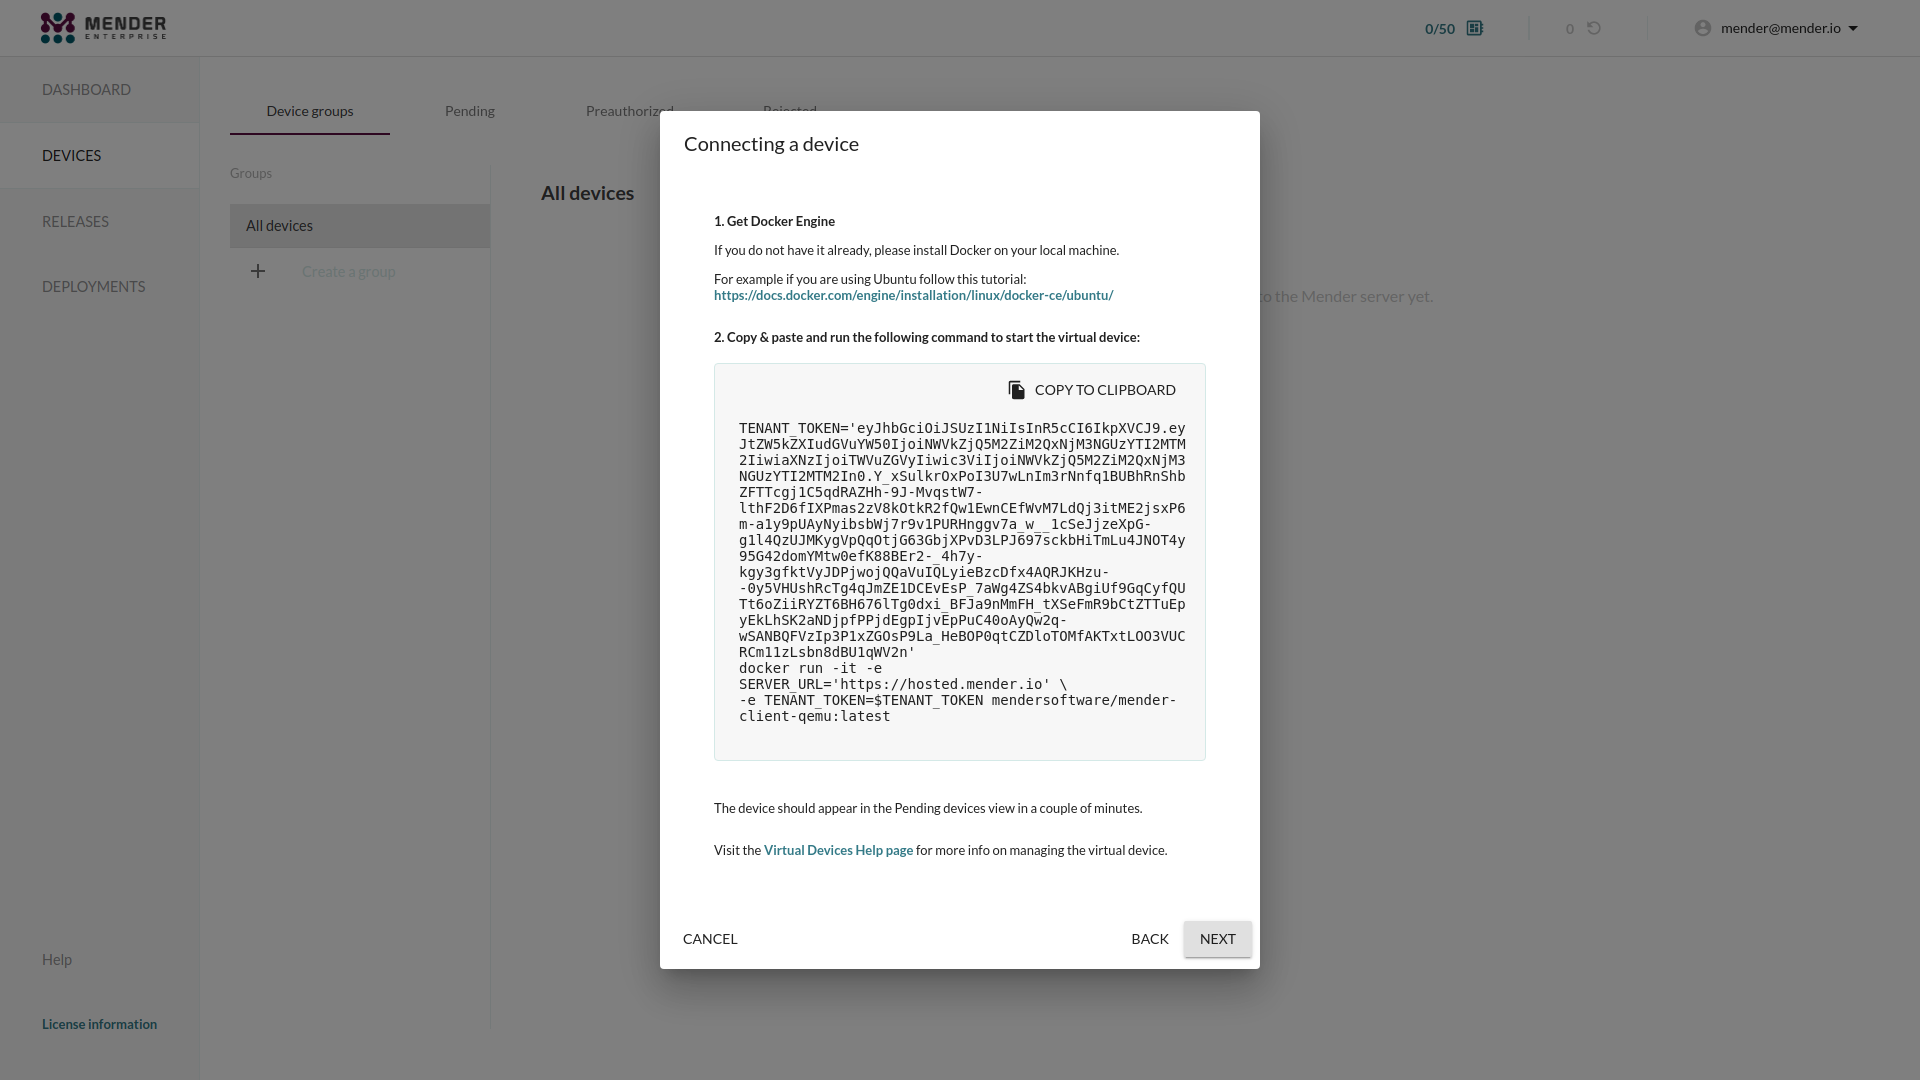
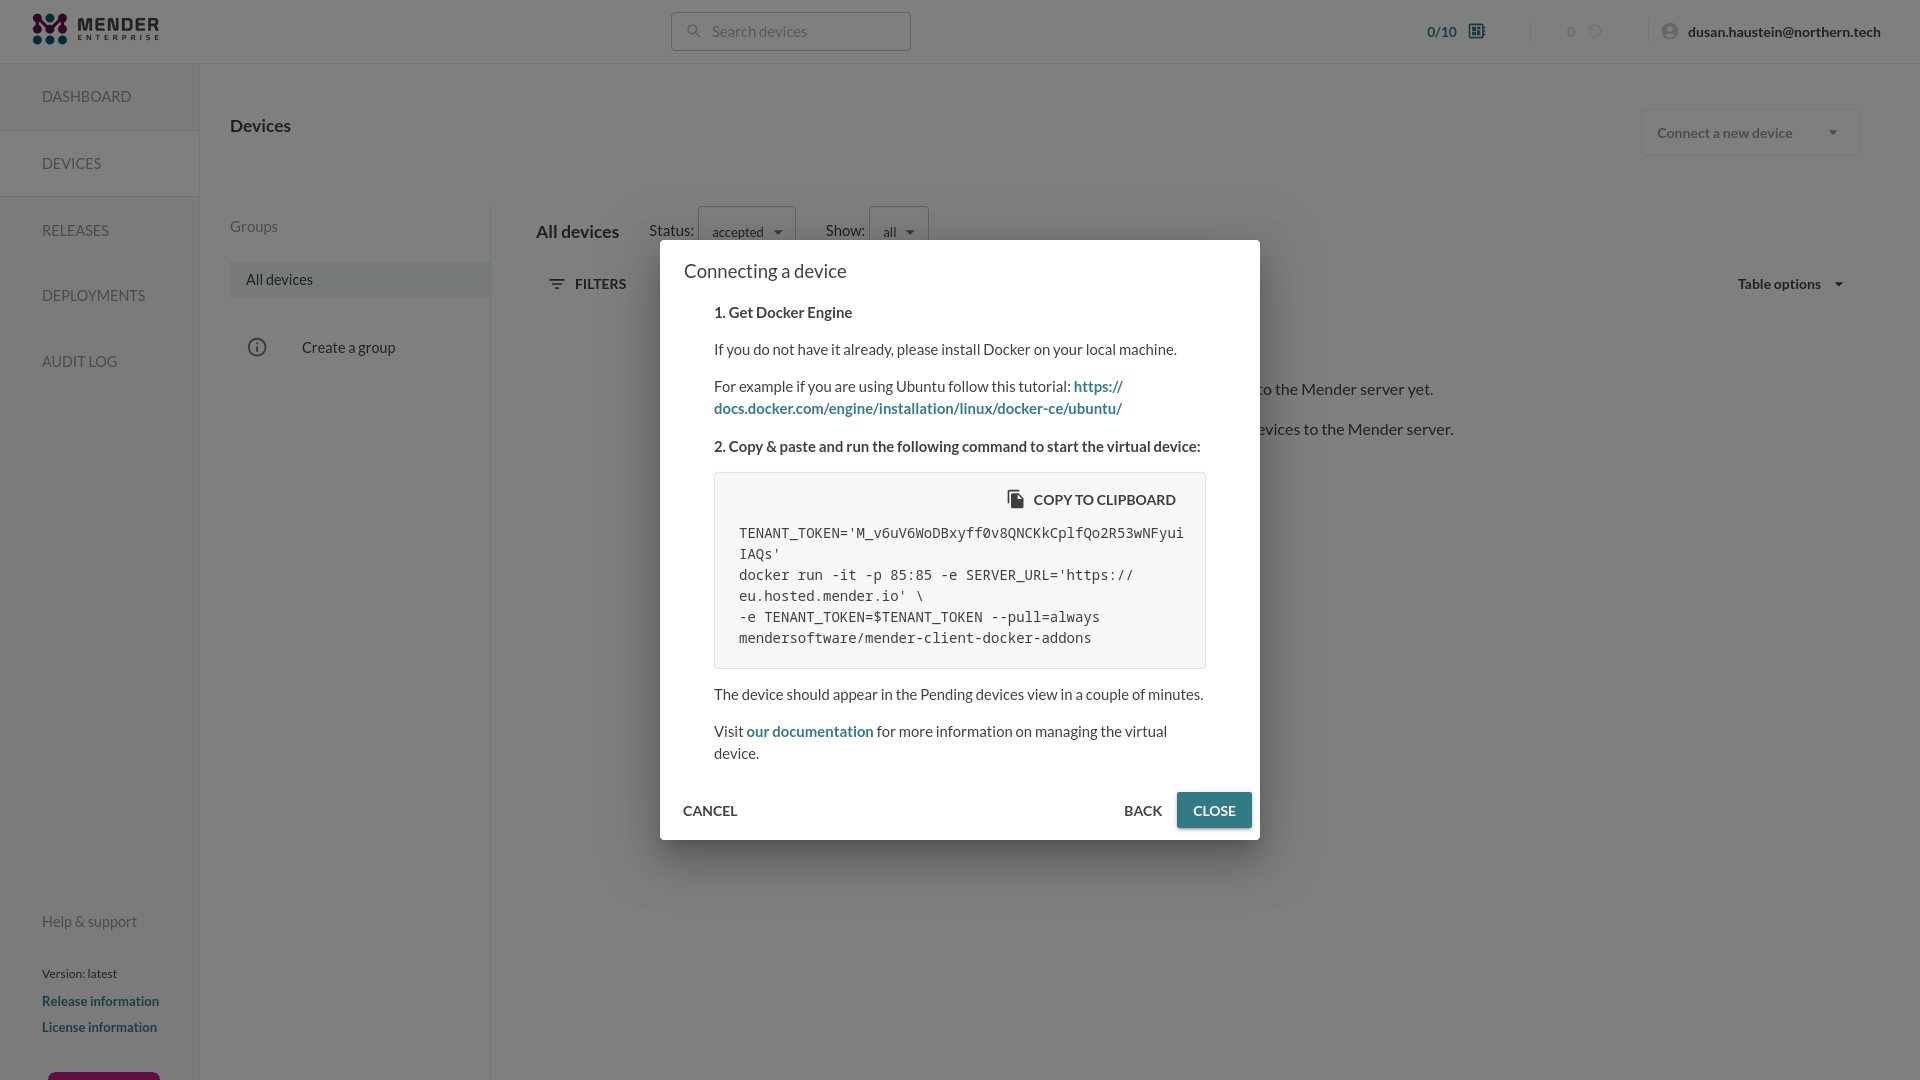
fix: update old accept virtual device image

diff --git a/01.Get-started/01.Preparation/02.Prepare-a-virtual-device/docs.md b/01.Get-started/01.Preparation/02.Prepare-a-virtual-device/docs.md
@@ -6,7 +6,7 @@ taxonomy:
 ---
 
 In this tutorial, we help you prepare your workstation to be able to run a virtual
-device (QEMU) with Mender integrated which will connect to hosted Mender and
+device (containerized) with Mender integrated which will connect to hosted Mender and
 simulate a physical device.
 
 ## Prerequisites
@@ -17,7 +17,8 @@ workstation.
 
 ## Step 1 - Login to hosted Mender
 
-!!! Hosted Mender is available in multiple [regions](/12.General/00.Hosted-Mender-regions/docs.md) to connect to. Make sure you select your desired one before proceeding.
+!!! Hosted Mender is available in multiple [regions](/12.General/00.Hosted-Mender-regions/docs.md) to connect to.
+!!! Make sure you select your desired one before proceeding.
 
 Login to [hosted Mender](https://hosted.mender.io?target=_blank). On the main
 page for the first time new users will get a tutorial in the Mender web GUI.
